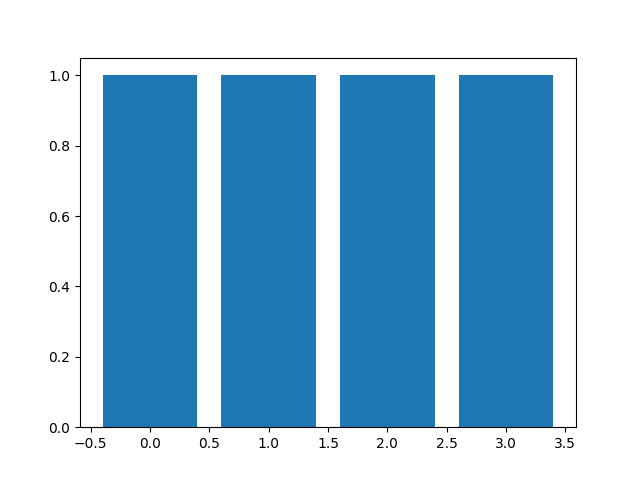
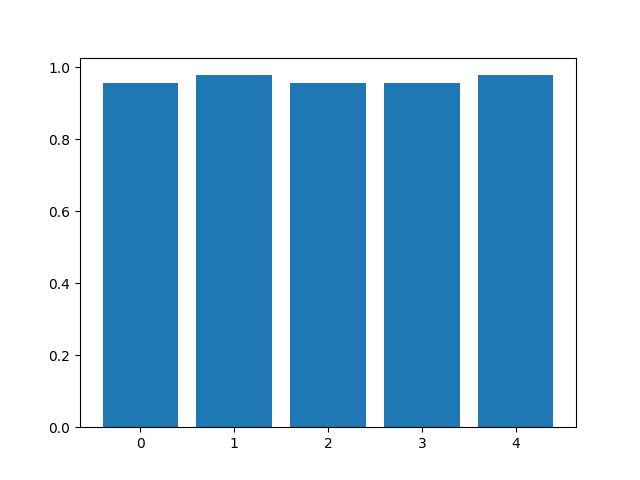
fixed minor isssures in week 1

diff --git a/week-1/week1.py b/week-1/week1.py
@@ -11,7 +11,8 @@ X = wine[["Alcohol","Malic.acid","Ash","Acl","Mg","Phenols","Flavanoids","Nonfla
 y = wine["Wine"]
 
 value=[]
-for i in range(4):
+k = 5
+for i in range(k):
     x_train, x_test, y_train, y_test = train_test_split(X, y, test_size=0.25)
 
     gnb = GaussianNB()
@@ -23,5 +24,5 @@ for i in range(4):
     
 # value.append((sum(value))/len(value))
 print("average of the model",(sum(value))/len(value))
-plt.bar([0,1,2,3],value)
+plt.bar( range(k),value)
 plt.show()
